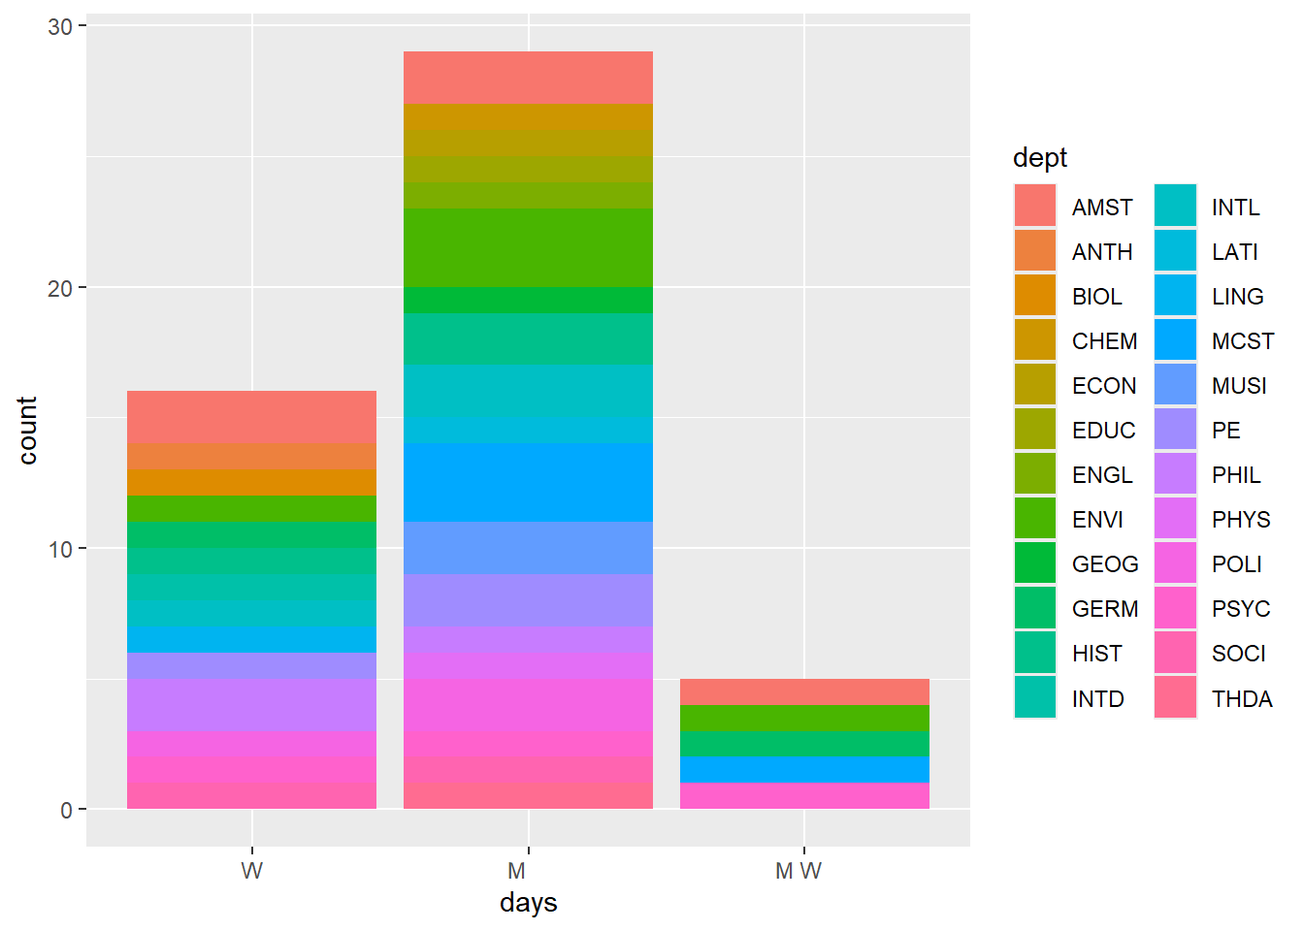
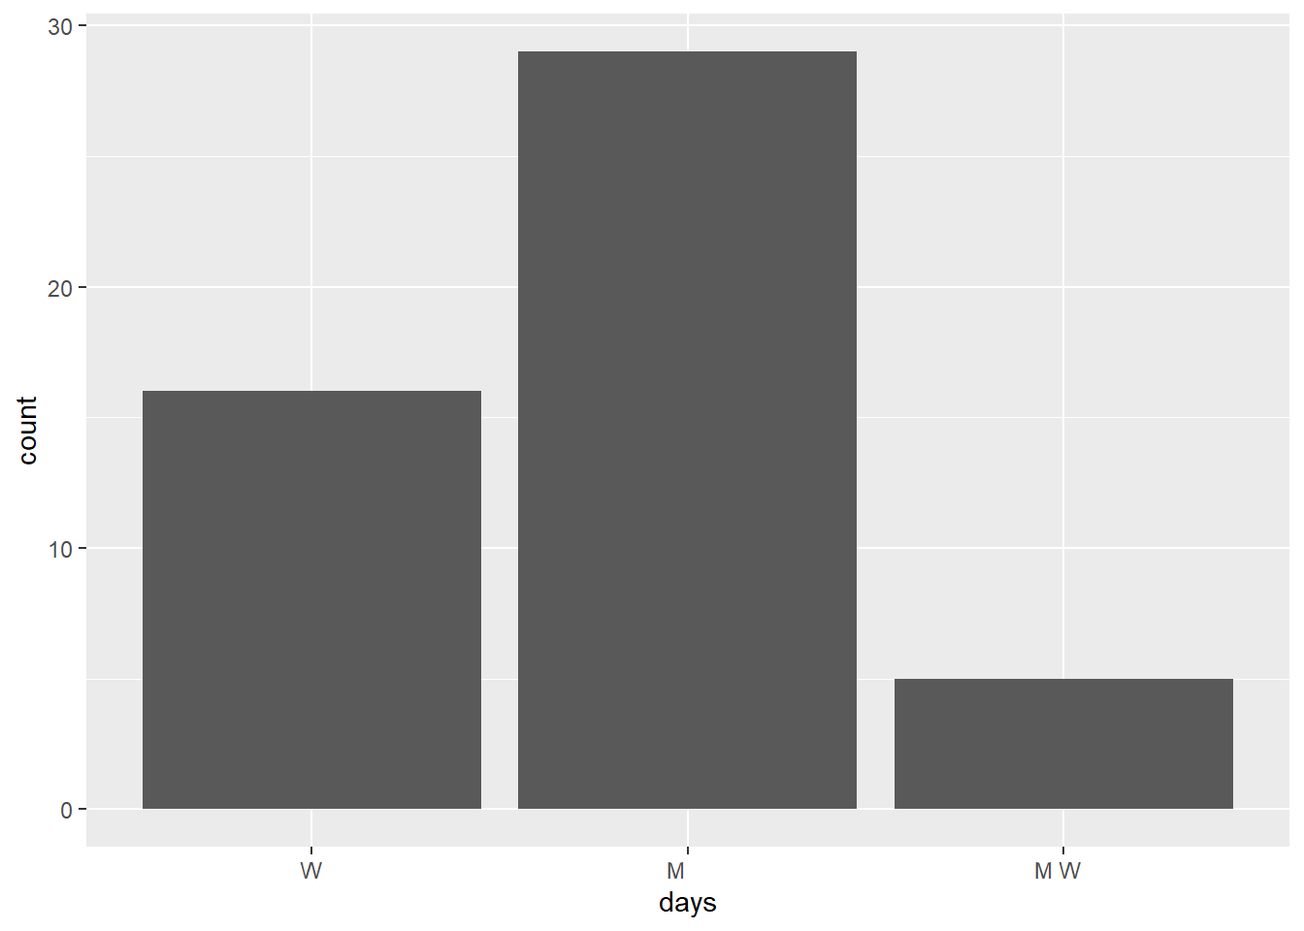
Built site for gh-pages

diff --git a/ica/ica-strings.html b/ica/ica-strings.html
@@ -293,13 +293,11 @@ pre > code.sourceCode > span > a:first-child::before { text-decoration: underlin
 <a href="#examples" id="toc-examples" class="nav-link active" data-scroll-target="#examples">Examples</a>
   <ul class="collapse">
 <li><a href="#example-1" id="toc-example-1" class="nav-link" data-scroll-target="#example-1">Example 1</a></li>
+  <li><a href="#example-2" id="toc-example-2" class="nav-link" data-scroll-target="#example-2">Example 2</a></li>
+  <li><a href="#example-3" id="toc-example-3" class="nav-link" data-scroll-target="#example-3">Example 3</a></li>
+  <li><a href="#example-4" id="toc-example-4" class="nav-link" data-scroll-target="#example-4">Example 4</a></li>
   </ul>
 </li>
-  <li>
-<a href="#example-2" id="toc-example-2" class="nav-link" data-scroll-target="#example-2">Example 2</a>
-  <ul class="collapse">
-<li><a href="#example-3" id="toc-example-3" class="nav-link" data-scroll-target="#example-3">Example 3</a></li>
-  <li><a href="#example-4" id="toc-example-4" class="nav-link" data-scroll-target="#example-4">Example 4</a></li>
   <li>
 <a href="#exercises" id="toc-exercises" class="nav-link" data-scroll-target="#exercises">Exercises</a>
   <ul class="collapse">
@@ -311,8 +309,6 @@ pre > code.sourceCode > span > a:first-child::before { text-decoration: underlin
   <li><a href="#exercise-6" id="toc-exercise-6" class="nav-link" data-scroll-target="#exercise-6">Exercise 6</a></li>
   <li><a href="#exercise-7" id="toc-exercise-7" class="nav-link" data-scroll-target="#exercise-7">Exercise 7</a></li>
   <li><a href="#extra-practice" id="toc-extra-practice" class="nav-link" data-scroll-target="#extra-practice">Extra practice</a></li>
-  </ul>
-</li>
   </ul>
 </li>
   </ul></nav>
@@ -336,8 +332,8 @@ pre > code.sourceCode > span > a:first-child::before { text-decoration: underlin
 
 
 </header><p>Use this file for practice with the <strong>Strings</strong> in-class activity. Refer to the class website for details.</p>
-<section id="examples" class="level2 unnumbered"><h2 class="unnumbered anchored" data-anchor-id="examples">Examples</h2>
-<section id="example-1" class="level3 unnumbered"><h3 class="unnumbered anchored" data-anchor-id="example-1">Example 1</h3>
+<section id="examples" class="level1 unnumbered"><h1 class="unnumbered">Examples</h1>
+<section id="example-1" class="level2 unnumbered"><h2 class="unnumbered anchored" data-anchor-id="example-1">Example 1</h2>
 <div class="cell">
 <div class="sourceCode cell-code" id="cb1"><pre class="sourceCode numberSource r number-lines code-with-copy"><code class="sourceCode r"><span id="cb1-1"><a href="#cb1-1"></a><span class="fu">library</span>(tidyverse)</span></code><button title="Copy to Clipboard" class="code-copy-button"><i class="bi"></i></button></pre></div>
 <div class="cell-output cell-output-stderr">
@@ -426,7 +422,7 @@ pre > code.sourceCode > span > a:first-child::before { text-decoration: underlin
 <div class="cell">
 <div class="sourceCode cell-code" id="cb15"><pre class="sourceCode numberSource r number-lines code-with-copy"><code class="sourceCode r"><span id="cb15-1"><a href="#cb15-1"></a><span class="co"># Use sem to create 2 new variables, one with only the semester (SP/FA) and 1 with the year</span></span></code><button title="Copy to Clipboard" class="code-copy-button"><i class="bi"></i></button></pre></div>
 </div>
-</section></section><section id="example-2" class="level1 unnumbered"><h1 class="unnumbered">Example 2</h1>
+</section><section id="example-2" class="level2 unnumbered"><h2 class="unnumbered anchored" data-anchor-id="example-2">Example 2</h2>
 <div class="cell">
 <div class="sourceCode cell-code" id="cb16"><pre class="sourceCode numberSource r number-lines code-with-copy"><code class="sourceCode r"><span id="cb16-1"><a href="#cb16-1"></a><span class="co"># say we only want spring courses</span></span>
 <span id="cb16-2"><a href="#cb16-2"></a></span>
@@ -456,10 +452,10 @@ pre > code.sourceCode > span > a:first-child::before { text-decoration: underlin
 2 SP2024  Anthro 25 - people Arjun Guneratne</code></pre>
 </div>
 </div>
-<section id="example-3" class="level3 unnumbered"><h3 class="unnumbered anchored" data-anchor-id="example-3">Example 3</h3>
+</section><section id="example-3" class="level2 unnumbered"><h2 class="unnumbered anchored" data-anchor-id="example-3">Example 3</h2>
 <p>Suppose we wanted to get separate columns for the first and last names of each course instructor in classes. Try doing this using str_sub(). But don’t try too long! Explain what trouble you ran into.</p>
 <p>the instructors names don’t have any characters in common…so we couldn’t easily seperate them by first and last name.</p>
-</section><section id="example-4" class="level3 unnumbered"><h3 class="unnumbered anchored" data-anchor-id="example-4">Example 4</h3>
+</section><section id="example-4" class="level2 unnumbered"><h2 class="unnumbered anchored" data-anchor-id="example-4">Example 4</h2>
 <div class="cell">
 <div class="sourceCode cell-code" id="cb22"><pre class="sourceCode numberSource r number-lines code-with-copy"><code class="sourceCode r"><span id="cb22-1"><a href="#cb22-1"></a><span class="co"># use seperate</span></span>
 <span id="cb22-2"><a href="#cb22-2"></a>classes <span class="sc">|&gt;</span> </span>
@@ -526,8 +522,8 @@ pre > code.sourceCode > span > a:first-child::before { text-decoration: underlin
 3       SP 2024  Anthro 25 - people  Arjun Guneratne</code></pre>
 </div>
 </div>
-</section><section id="exercises" class="level2 unnumbered"><h2 class="unnumbered anchored" data-anchor-id="exercises">Exercises</h2>
-<section id="exercise-1" class="level3 unnumbered"><h3 class="unnumbered anchored" data-anchor-id="exercise-1">Exercise 1</h3>
+</section></section><section id="exercises" class="level1 unnumbered"><h1 class="unnumbered">Exercises</h1>
+<section id="exercise-1" class="level2 unnumbered"><h2 class="unnumbered anchored" data-anchor-id="exercise-1">Exercise 1</h2>
 <div class="cell">
 <div class="sourceCode cell-code" id="cb32"><pre class="sourceCode numberSource r number-lines code-with-copy"><code class="sourceCode r"><span id="cb32-1"><a href="#cb32-1"></a>courses <span class="ot">&lt;-</span> <span class="fu">read.csv</span>(<span class="st">"https://mac-stat.github.io/data/registrar.csv"</span>)</span>
 <span id="cb32-2"><a href="#cb32-2"></a></span>
@@ -576,7 +572,7 @@ pre > code.sourceCode > span > a:first-child::before { text-decoration: underlin
 6 " T R " 1:20 - 2:50 pm      59</code></pre>
 </div>
 </div>
-</section><section id="exercise-2" class="level3 unnumbered"><h3 class="unnumbered anchored" data-anchor-id="exercise-2">Exercise 2</h3>
+</section><section id="exercise-2" class="level2 unnumbered"><h2 class="unnumbered anchored" data-anchor-id="exercise-2">Exercise 2</h2>
 <div class="cell">
 <div class="sourceCode cell-code" id="cb37"><pre class="sourceCode numberSource r number-lines code-with-copy"><code class="sourceCode r"><span id="cb37-1"><a href="#cb37-1"></a>courses_clean <span class="ot">&lt;-</span> courses <span class="sc">|&gt;</span></span>
 <span id="cb37-2"><a href="#cb37-2"></a>  <span class="fu">separate</span>(avail_max, <span class="fu">c</span>(<span class="st">"avail"</span>, <span class="st">"max"</span>), <span class="at">sep =</span> <span class="st">" / "</span>) <span class="sc">|&gt;</span></span>
@@ -604,7 +600,7 @@ pre > code.sourceCode > span > a:first-child::before { text-decoration: underlin
 6   W   7:00 - 10:00 pm  MAIN 010         Walter Greason    -1  15     16</code></pre>
 </div>
 </div>
-</section><section id="exercise-3" class="level3 unnumbered"><h3 class="unnumbered anchored" data-anchor-id="exercise-3">Exercise 3</h3>
+</section><section id="exercise-3" class="level2 unnumbered"><h2 class="unnumbered anchored" data-anchor-id="exercise-3">Exercise 3</h2>
 <div class="cell">
 <div class="sourceCode cell-code" id="cb39"><pre class="sourceCode numberSource r number-lines code-with-copy"><code class="sourceCode r"><span id="cb39-1"><a href="#cb39-1"></a><span class="co"># Identify the 6 departments that offered the most sections</span></span>
 <span id="cb39-2"><a href="#cb39-2"></a>courses_clean <span class="sc">|&gt;</span></span>
@@ -646,7 +642,7 @@ pre > code.sourceCode > span > a:first-child::before { text-decoration: underlin
 6 AMST           37.3</code></pre>
 </div>
 </div>
-</section><section id="exercise-4" class="level3 unnumbered"><h3 class="unnumbered anchored" data-anchor-id="exercise-4">Exercise 4</h3>
+</section><section id="exercise-4" class="level2 unnumbered"><h2 class="unnumbered anchored" data-anchor-id="exercise-4">Exercise 4</h2>
 <div class="cell">
 <div class="sourceCode cell-code" id="cb43"><pre class="sourceCode numberSource r number-lines code-with-copy"><code class="sourceCode r"><span id="cb43-1"><a href="#cb43-1"></a><span class="co"># part a</span></span>
 <span id="cb43-2"><a href="#cb43-2"></a><span class="co"># courses taught by Alicia Johnson</span></span>
@@ -684,7 +680,7 @@ pre > code.sourceCode > span > a:first-child::before { text-decoration: underlin
 6    155  Stat Modeling       9:40     24</code></pre>
 </div>
 </div>
-</section><section id="exercise-5" class="level3 unnumbered"><h3 class="unnumbered anchored" data-anchor-id="exercise-5">Exercise 5</h3>
+</section><section id="exercise-5" class="level2 unnumbered"><h2 class="unnumbered anchored" data-anchor-id="exercise-5">Exercise 5</h2>
 <div class="cell">
 <div class="sourceCode cell-code" id="cb47"><pre class="sourceCode numberSource r number-lines code-with-copy"><code class="sourceCode r"><span id="cb47-1"><a href="#cb47-1"></a>enrollments <span class="ot">&lt;-</span> courses_clean <span class="sc">|&gt;</span></span>
 <span id="cb47-2"><a href="#cb47-2"></a>  <span class="fu">filter</span>(dept <span class="sc">!=</span> <span class="st">"PE"</span>, dept <span class="sc">!=</span> <span class="st">"INTD"</span>) <span class="sc">|&gt;</span></span>
@@ -694,7 +690,7 @@ pre > code.sourceCode > span > a:first-child::before { text-decoration: underlin
 <span id="cb47-6"><a href="#cb47-6"></a>  <span class="fu">filter</span>(lab <span class="sc">==</span> <span class="st">"FALSE"</span>) <span class="sc">|&gt;</span></span>
 <span id="cb47-7"><a href="#cb47-7"></a>  <span class="fu">select</span>(<span class="sc">-</span><span class="st">"lab"</span>)</span></code><button title="Copy to Clipboard" class="code-copy-button"><i class="bi"></i></button></pre></div>
 </div>
-</section><section id="exercise-6" class="level3 unnumbered"><h3 class="unnumbered anchored" data-anchor-id="exercise-6">Exercise 6</h3>
+</section><section id="exercise-6" class="level2 unnumbered"><h2 class="unnumbered anchored" data-anchor-id="exercise-6">Exercise 6</h2>
 <div class="cell">
 <div class="sourceCode cell-code" id="cb48"><pre class="sourceCode numberSource r number-lines code-with-copy"><code class="sourceCode r"><span id="cb48-1"><a href="#cb48-1"></a><span class="co"># explore enrollments by department</span></span>
 <span id="cb48-2"><a href="#cb48-2"></a></span>
@@ -715,7 +711,7 @@ pre > code.sourceCode > span > a:first-child::before { text-decoration: underlin
 </div>
 </div>
 </div>
-</section><section id="exercise-7" class="level3 unnumbered"><h3 class="unnumbered anchored" data-anchor-id="exercise-7">Exercise 7</h3>
+</section><section id="exercise-7" class="level2 unnumbered"><h2 class="unnumbered anchored" data-anchor-id="exercise-7">Exercise 7</h2>
 <div class="cell">
 <div class="sourceCode cell-code" id="cb49"><pre class="sourceCode numberSource r number-lines code-with-copy"><code class="sourceCode r"><span id="cb49-1"><a href="#cb49-1"></a><span class="co"># filter out cross-listed courses</span></span>
 <span id="cb49-2"><a href="#cb49-2"></a>enrollments <span class="sc">|&gt;</span></span>
@@ -785,7 +781,7 @@ Caused by warning:
 </div>
 </div>
 </div>
-</section><section id="extra-practice" class="level3 unnumbered"><h3 class="unnumbered anchored" data-anchor-id="extra-practice">Extra practice</h3>
+</section><section id="extra-practice" class="level2 unnumbered"><h2 class="unnumbered anchored" data-anchor-id="extra-practice">Extra practice</h2>
 <div class="cell">
 <div class="sourceCode cell-code" id="cb57"><pre class="sourceCode numberSource r number-lines code-with-copy"><code class="sourceCode r"><span id="cb57-1"><a href="#cb57-1"></a><span class="co"># Make a bar plot showing the number of night courses by day of the week</span></span>
 <span id="cb57-2"><a href="#cb57-2"></a><span class="co"># Use courses_clean</span></span>
@@ -796,8 +792,8 @@ Caused by warning:
 <span id="cb57-7"><a href="#cb57-7"></a>  <span class="fu">mutate</span>(<span class="at">night =</span> <span class="fu">str_detect</span>(start, <span class="st">"7:00"</span>)) <span class="sc">|&gt;</span></span>
 <span id="cb57-8"><a href="#cb57-8"></a>  <span class="fu">mutate</span>(<span class="at">days =</span> <span class="fu">as.factor</span>(days)) <span class="sc">|&gt;</span></span>
 <span id="cb57-9"><a href="#cb57-9"></a>  <span class="fu">filter</span>(night <span class="sc">==</span> <span class="st">"TRUE"</span>) <span class="sc">|&gt;</span></span>
-<span id="cb57-10"><a href="#cb57-10"></a>  <span class="fu">ggplot</span>(<span class="fu">aes</span>(<span class="at">x=</span>days, <span class="at">fill =</span> dept))<span class="sc">+</span></span>
-<span id="cb57-11"><a href="#cb57-11"></a>  <span class="fu">geom_bar</span>(<span class="at">position =</span> <span class="st">"stack"</span>)</span></code><button title="Copy to Clipboard" class="code-copy-button"><i class="bi"></i></button></pre></div>
+<span id="cb57-10"><a href="#cb57-10"></a>  <span class="fu">ggplot</span>(<span class="fu">aes</span>(<span class="at">x=</span>days))<span class="sc">+</span></span>
+<span id="cb57-11"><a href="#cb57-11"></a>  <span class="fu">geom_bar</span>()</span></code><button title="Copy to Clipboard" class="code-copy-button"><i class="bi"></i></button></pre></div>
 <div class="cell-output cell-output-stderr">
 <pre><code>Warning: Expected 2 pieces. Missing pieces filled with `NA` in 1 rows [56].</code></pre>
 </div>
@@ -812,7 +808,7 @@ Caused by warning:
 
 <!-- -->
 
-</section></section></section></main><!-- /main --><script id="quarto-html-after-body" type="application/javascript">
+</section></section></main><!-- /main --><script id="quarto-html-after-body" type="application/javascript">
 window.document.addEventListener("DOMContentLoaded", function (event) {
   const toggleBodyColorMode = (bsSheetEl) => {
     const mode = bsSheetEl.getAttribute("data-mode");
@@ -1446,9 +1442,9 @@ window.document.addEventListener("DOMContentLoaded", function (event) {
 <span id="cb59-5"><a href="#cb59-5"></a></span>
 <span id="cb59-6"><a href="#cb59-6"></a>Use this file for practice with the **Strings** in-class activity. Refer to the class website for details.</span>
 <span id="cb59-7"><a href="#cb59-7"></a></span>
-<span id="cb59-8"><a href="#cb59-8"></a><span class="fu">## Examples {.unnumbered}</span></span>
+<span id="cb59-8"><a href="#cb59-8"></a><span class="fu"># Examples {.unnumbered}</span></span>
 <span id="cb59-9"><a href="#cb59-9"></a></span>
-<span id="cb59-10"><a href="#cb59-10"></a><span class="fu">### Example 1 {.unnumbered}</span></span>
+<span id="cb59-10"><a href="#cb59-10"></a><span class="fu">## Example 1 {.unnumbered}</span></span>
 <span id="cb59-11"><a href="#cb59-11"></a></span>
 <span id="cb59-14"><a href="#cb59-14"></a><span class="in">```{r}</span></span>
 <span id="cb59-15"><a href="#cb59-15"></a><span class="fu">library</span>(tidyverse)</span>
@@ -1499,7 +1495,7 @@ window.document.addEventListener("DOMContentLoaded", function (event) {
 <span id="cb59-72"><a href="#cb59-72"></a></span>
 <span id="cb59-73"><a href="#cb59-73"></a><span class="in">```</span></span>
 <span id="cb59-74"><a href="#cb59-74"></a></span>
-<span id="cb59-75"><a href="#cb59-75"></a><span class="fu"># Example 2 {.unnumbered}</span></span>
+<span id="cb59-75"><a href="#cb59-75"></a><span class="fu">## Example 2 {.unnumbered}</span></span>
 <span id="cb59-78"><a href="#cb59-78"></a><span class="in">```{r}</span></span>
 <span id="cb59-79"><a href="#cb59-79"></a><span class="co"># say we only want spring courses</span></span>
 <span id="cb59-80"><a href="#cb59-80"></a></span>
@@ -1518,13 +1514,13 @@ window.document.addEventListener("DOMContentLoaded", function (event) {
 <span id="cb59-93"><a href="#cb59-93"></a><span class="in">```</span></span>
 <span id="cb59-94"><a href="#cb59-94"></a></span>
 <span id="cb59-95"><a href="#cb59-95"></a></span>
-<span id="cb59-96"><a href="#cb59-96"></a><span class="fu">### Example 3 {.unnumbered}</span></span>
+<span id="cb59-96"><a href="#cb59-96"></a><span class="fu">## Example 3 {.unnumbered}</span></span>
 <span id="cb59-97"><a href="#cb59-97"></a>Suppose we wanted to get separate columns for the first and last names of each course instructor in classes. Try doing this using str_sub(). But don’t try too long! Explain what trouble you ran into.</span>
 <span id="cb59-98"><a href="#cb59-98"></a></span>
 <span id="cb59-99"><a href="#cb59-99"></a>the instructors names don't have any characters in common...so we couldn't easily seperate them by first and last name.</span>
 <span id="cb59-100"><a href="#cb59-100"></a></span>
 <span id="cb59-101"><a href="#cb59-101"></a></span>
-<span id="cb59-102"><a href="#cb59-102"></a><span class="fu">### Example 4 {.unnumbered}</span></span>
+<span id="cb59-102"><a href="#cb59-102"></a><span class="fu">## Example 4 {.unnumbered}</span></span>
 <span id="cb59-103"><a href="#cb59-103"></a></span>
 <span id="cb59-106"><a href="#cb59-106"></a><span class="in">```{r}</span></span>
 <span id="cb59-107"><a href="#cb59-107"></a><span class="co"># use seperate</span></span>
@@ -1565,9 +1561,9 @@ window.document.addEventListener("DOMContentLoaded", function (event) {
 <span id="cb59-146"><a href="#cb59-146"></a><span class="in">```</span></span>
 <span id="cb59-147"><a href="#cb59-147"></a></span>
 <span id="cb59-148"><a href="#cb59-148"></a></span>
-<span id="cb59-149"><a href="#cb59-149"></a><span class="fu">## Exercises {.unnumbered}</span></span>
+<span id="cb59-149"><a href="#cb59-149"></a><span class="fu"># Exercises {.unnumbered}</span></span>
 <span id="cb59-150"><a href="#cb59-150"></a></span>
-<span id="cb59-151"><a href="#cb59-151"></a><span class="fu">### Exercise 1 {.unnumbered}</span></span>
+<span id="cb59-151"><a href="#cb59-151"></a><span class="fu">## Exercise 1 {.unnumbered}</span></span>
 <span id="cb59-154"><a href="#cb59-154"></a><span class="in">```{r}</span></span>
 <span id="cb59-155"><a href="#cb59-155"></a>courses <span class="ot">&lt;-</span> <span class="fu">read.csv</span>(<span class="st">"https://mac-stat.github.io/data/registrar.csv"</span>)</span>
 <span id="cb59-156"><a href="#cb59-156"></a></span>
@@ -1586,7 +1582,7 @@ window.document.addEventListener("DOMContentLoaded", function (event) {
 <span id="cb59-171"><a href="#cb59-171"></a>  <span class="fu">head</span>()</span>
 <span id="cb59-172"><a href="#cb59-172"></a><span class="in">```</span></span>
 <span id="cb59-173"><a href="#cb59-173"></a></span>
-<span id="cb59-174"><a href="#cb59-174"></a><span class="fu">### Exercise 2 {.unnumbered}</span></span>
+<span id="cb59-174"><a href="#cb59-174"></a><span class="fu">## Exercise 2 {.unnumbered}</span></span>
 <span id="cb59-175"><a href="#cb59-175"></a></span>
 <span id="cb59-178"><a href="#cb59-178"></a><span class="in">```{r}</span></span>
 <span id="cb59-179"><a href="#cb59-179"></a>courses_clean <span class="ot">&lt;-</span> courses <span class="sc">|&gt;</span></span>
@@ -1600,7 +1596,7 @@ window.document.addEventListener("DOMContentLoaded", function (event) {
 <span id="cb59-187"><a href="#cb59-187"></a><span class="fu">head</span>(courses_clean)</span>
 <span id="cb59-188"><a href="#cb59-188"></a><span class="in">```</span></span>
 <span id="cb59-189"><a href="#cb59-189"></a></span>
-<span id="cb59-190"><a href="#cb59-190"></a><span class="fu">### Exercise 3 {.unnumbered}</span></span>
+<span id="cb59-190"><a href="#cb59-190"></a><span class="fu">## Exercise 3 {.unnumbered}</span></span>
 <span id="cb59-193"><a href="#cb59-193"></a><span class="in">```{r}</span></span>
 <span id="cb59-194"><a href="#cb59-194"></a><span class="co"># Identify the 6 departments that offered the most sections</span></span>
 <span id="cb59-195"><a href="#cb59-195"></a>courses_clean <span class="sc">|&gt;</span></span>
@@ -1620,7 +1616,7 @@ window.document.addEventListener("DOMContentLoaded", function (event) {
 <span id="cb59-209"><a href="#cb59-209"></a></span>
 <span id="cb59-210"><a href="#cb59-210"></a><span class="in">```</span></span>
 <span id="cb59-211"><a href="#cb59-211"></a></span>
-<span id="cb59-212"><a href="#cb59-212"></a><span class="fu">### Exercise 4 {.unnumbered}</span></span>
+<span id="cb59-212"><a href="#cb59-212"></a><span class="fu">## Exercise 4 {.unnumbered}</span></span>
 <span id="cb59-213"><a href="#cb59-213"></a></span>
 <span id="cb59-216"><a href="#cb59-216"></a><span class="in">```{r}</span></span>
 <span id="cb59-217"><a href="#cb59-217"></a><span class="co"># part a</span></span>
@@ -1643,7 +1639,7 @@ window.document.addEventListener("DOMContentLoaded", function (event) {
 <span id="cb59-234"><a href="#cb59-234"></a><span class="fu">head</span>(stat)</span>
 <span id="cb59-235"><a href="#cb59-235"></a><span class="in">```</span></span>
 <span id="cb59-236"><a href="#cb59-236"></a></span>
-<span id="cb59-237"><a href="#cb59-237"></a><span class="fu">### Exercise 5 {.unnumbered}</span></span>
+<span id="cb59-237"><a href="#cb59-237"></a><span class="fu">## Exercise 5 {.unnumbered}</span></span>
 <span id="cb59-238"><a href="#cb59-238"></a></span>
 <span id="cb59-241"><a href="#cb59-241"></a><span class="in">```{r}</span></span>
 <span id="cb59-242"><a href="#cb59-242"></a>enrollments <span class="ot">&lt;-</span> courses_clean <span class="sc">|&gt;</span></span>
@@ -1656,7 +1652,7 @@ window.document.addEventListener("DOMContentLoaded", function (event) {
 <span id="cb59-249"><a href="#cb59-249"></a></span>
 <span id="cb59-250"><a href="#cb59-250"></a><span class="in">```</span></span>
 <span id="cb59-251"><a href="#cb59-251"></a></span>
-<span id="cb59-252"><a href="#cb59-252"></a><span class="fu">### Exercise 6 {.unnumbered}</span></span>
+<span id="cb59-252"><a href="#cb59-252"></a><span class="fu">## Exercise 6 {.unnumbered}</span></span>
 <span id="cb59-253"><a href="#cb59-253"></a></span>
 <span id="cb59-254"><a href="#cb59-254"></a><span class="in">```{r, fig.width=18, fig.height=12}</span></span>
 <span id="cb59-255"><a href="#cb59-255"></a><span class="in"># explore enrollments by department</span></span>
@@ -1674,7 +1670,7 @@ window.document.addEventListener("DOMContentLoaded", function (event) {
 <span id="cb59-267"><a href="#cb59-267"></a></span>
 <span id="cb59-268"><a href="#cb59-268"></a></span>
 <span id="cb59-269"><a href="#cb59-269"></a><span class="in">```</span></span>
-<span id="cb59-270"><a href="#cb59-270"></a><span class="fu">### Exercise 7 {.unnumbered}</span></span>
+<span id="cb59-270"><a href="#cb59-270"></a><span class="fu">## Exercise 7 {.unnumbered}</span></span>
 <span id="cb59-273"><a href="#cb59-273"></a><span class="in">```{r}</span></span>
 <span id="cb59-274"><a href="#cb59-274"></a><span class="co"># filter out cross-listed courses</span></span>
 <span id="cb59-275"><a href="#cb59-275"></a>enrollments <span class="sc">|&gt;</span></span>
@@ -1712,7 +1708,7 @@ window.document.addEventListener("DOMContentLoaded", function (event) {
 <span id="cb59-309"><a href="#cb59-309"></a>  </span>
 <span id="cb59-310"><a href="#cb59-310"></a>  </span>
 <span id="cb59-311"><a href="#cb59-311"></a><span class="in">```</span></span>
-<span id="cb59-312"><a href="#cb59-312"></a><span class="fu">### Extra practice {.unnumbered}</span></span>
+<span id="cb59-312"><a href="#cb59-312"></a><span class="fu">## Extra practice {.unnumbered}</span></span>
 <span id="cb59-313"><a href="#cb59-313"></a></span>
 <span id="cb59-316"><a href="#cb59-316"></a><span class="in">```{r}</span></span>
 <span id="cb59-317"><a href="#cb59-317"></a><span class="co"># Make a bar plot showing the number of night courses by day of the week</span></span>
@@ -1724,8 +1720,8 @@ window.document.addEventListener("DOMContentLoaded", function (event) {
 <span id="cb59-323"><a href="#cb59-323"></a>  <span class="fu">mutate</span>(<span class="at">night =</span> <span class="fu">str_detect</span>(start, <span class="st">"7:00"</span>)) <span class="sc">|&gt;</span></span>
 <span id="cb59-324"><a href="#cb59-324"></a>  <span class="fu">mutate</span>(<span class="at">days =</span> <span class="fu">as.factor</span>(days)) <span class="sc">|&gt;</span></span>
 <span id="cb59-325"><a href="#cb59-325"></a>  <span class="fu">filter</span>(night <span class="sc">==</span> <span class="st">"TRUE"</span>) <span class="sc">|&gt;</span></span>
-<span id="cb59-326"><a href="#cb59-326"></a>  <span class="fu">ggplot</span>(<span class="fu">aes</span>(<span class="at">x=</span>days, <span class="at">fill =</span> dept))<span class="sc">+</span></span>
-<span id="cb59-327"><a href="#cb59-327"></a>  <span class="fu">geom_bar</span>(<span class="at">position =</span> <span class="st">"stack"</span>)</span>
+<span id="cb59-326"><a href="#cb59-326"></a>  <span class="fu">ggplot</span>(<span class="fu">aes</span>(<span class="at">x=</span>days))<span class="sc">+</span></span>
+<span id="cb59-327"><a href="#cb59-327"></a>  <span class="fu">geom_bar</span>()</span>
 <span id="cb59-328"><a href="#cb59-328"></a><span class="in">```</span></span>
 </code><button title="Copy to Clipboard" class="code-copy-button" data-in-quarto-modal=""><i class="bi"></i></button></pre></div>
 </div></div></div></div></div>

diff --git a/index.html b/index.html
@@ -5,7 +5,7 @@
 <meta name="generator" content="quarto-1.5.57">
 <meta name="viewport" content="width=device-width, initial-scale=1.0, user-scalable=yes">
 <meta name="author" content="Sarah Radzilowski">
-<meta name="dcterms.date" content="2025-03-13">
+<meta name="dcterms.date" content="2025-03-22">
 <title>COMP/STAT112 Notebook</title>
 <style>
 code{white-space: pre-wrap;}
@@ -315,7 +315,7 @@ pre > code.sourceCode > span > a:first-child::before { text-decoration: underlin
     <div>
     <div class="quarto-title-meta-heading">Published</div>
     <div class="quarto-title-meta-contents">
-      <p class="date">March 13, 2025</p>
+      <p class="date">March 22, 2025</p>
     </div>
   </div>
   
